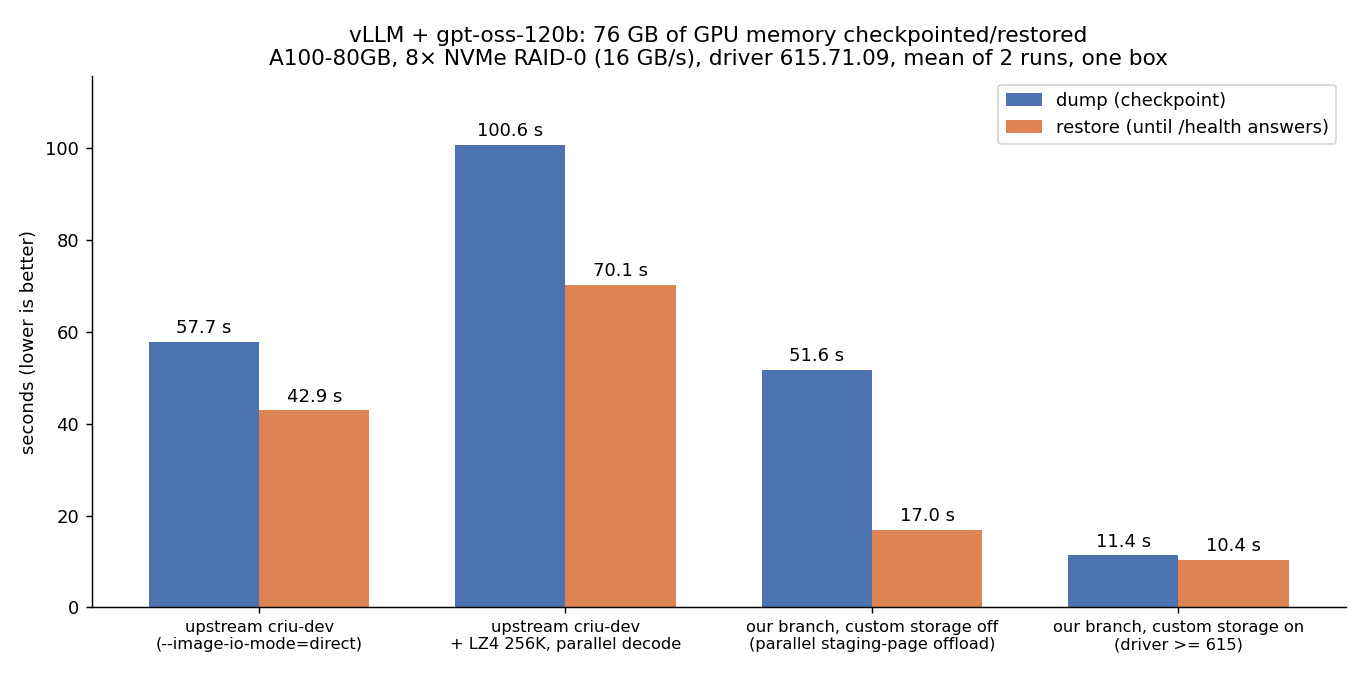
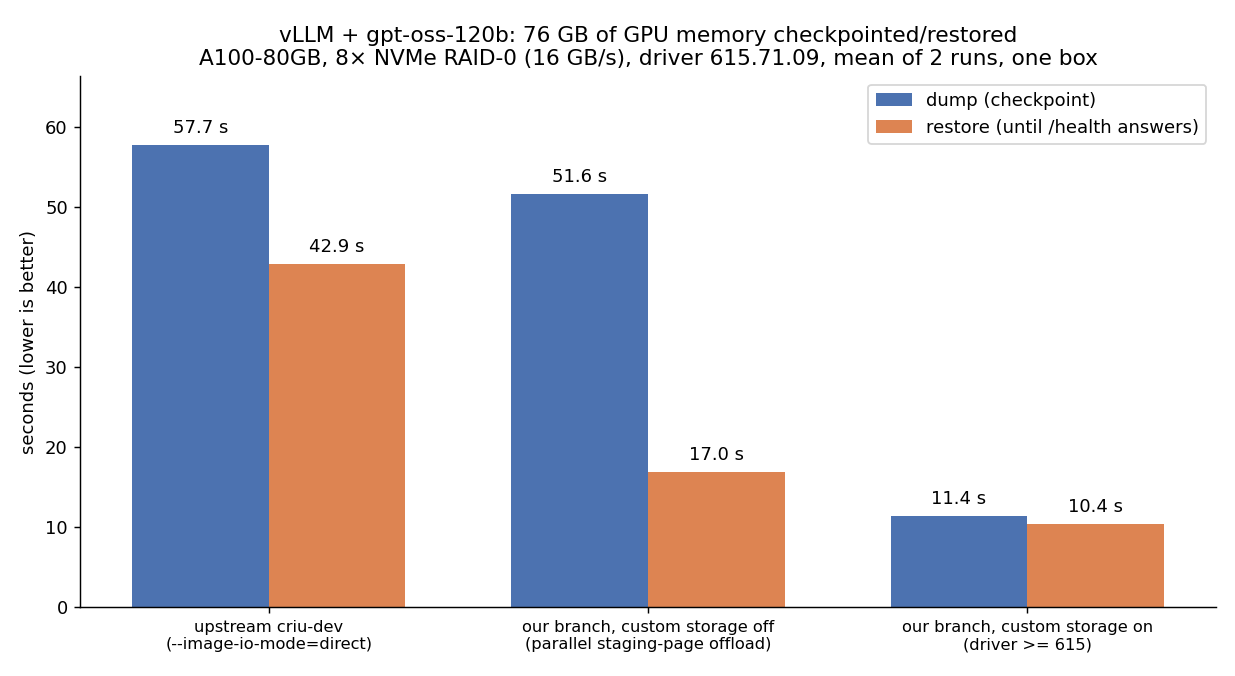
README: keep LZ4 out of the headline chart and table

diff --git a/results/2026-10_p4de_parallel_dump/plot_gptoss.py b/results/2026-10_p4de_parallel_dump/plot_gptoss.py
@@ -1,6 +1,6 @@
 #!/usr/bin/env python3
 """Bar chart of gpt-oss-120b checkpoint/restore on one p4de (A100-80GB, driver 615), 2026-10-06.
-Means of the two runs in this directory's summary.md and ../2026-10_p4de_compression_zero_skip/summary.md.
+Means of the two runs in this directory's summary.md (upstream: ../2026-10_p4de_compression_zero_skip/summary.md).
 Run: python3 plot_gptoss.py"""
 import matplotlib
 matplotlib.use("Agg")
@@ -9,15 +9,14 @@ import numpy as np
 
 variants = [
     "upstream criu-dev\n(--image-io-mode=direct)",
-    "upstream criu-dev\n+ LZ4 256K, parallel decode",
     "our branch, custom storage off\n(parallel staging-page offload)",
     "our branch, custom storage on\n(driver >= 615)",
 ]
-dump = [(57.124 + 58.336) / 2, (101.103 + 100.102) / 2, (51.796 + 51.480) / 2, (11.395 + 11.316) / 2]
-restore = [(44.211 + 41.557) / 2, (70.482 + 69.808) / 2, (17.372 + 16.533) / 2, (10.366 + 10.346) / 2]
+dump = [(57.124 + 58.336) / 2, (51.796 + 51.480) / 2, (11.395 + 11.316) / 2]
+restore = [(44.211 + 41.557) / 2, (17.372 + 16.533) / 2, (10.366 + 10.346) / 2]
 
 x = np.arange(len(variants)); w = 0.36
-fig, ax = plt.subplots(figsize=(10.5, 5.2))
+fig, ax = plt.subplots(figsize=(9.5, 5.2))
 b1 = ax.bar(x - w / 2, dump, w, label="dump (checkpoint)", color="#4C72B0")
 b2 = ax.bar(x + w / 2, restore, w, label="restore (until /health answers)", color="#DD8452")
 for bars in (b1, b2):

diff --git a/README.md b/README.md
@@ -15,7 +15,6 @@ driver 615.71.09), all variants on the same box. vLLM fills the card with KV cac
 | variant | dump | restore | what it does |
 |---|---|---|---|
 | upstream `criu-dev` `4485a86da`, `--image-io-mode=direct` | 58 s | 43 s | driver copies VRAM to host RAM, CRIU dumps those pages like any other memory |
-| upstream + `--compress-block 256K`, `--decompress-threads 0` | 101 s | 70 s | same, LZ4-compressed; the weights barely compress (image −16%) and restore stays bound by page faults |
 | our branch, custom storage off | **52 s** | **17 s** | driver still copies VRAM↔host RAM; the plugin moves the staging pages itself, 8 threads on dump (9 GB/s) and 16 on restore (21 GB/s), with O_DIRECT and 2 MB pages |
 | our branch, **custom storage on** (driver ≥ 615) | **11.4 s** | **10.4 s** | the plugin reads/writes VRAM directly through driver-exposed device mappings; no host staging copy at all |
 
@@ -43,8 +42,7 @@ then dumps that memory as ordinary pages. Upstream pays the driver copy (A100: ~
 ~2 GB/s on dump, ~10 s on restore) plus a page-cache-bound write/read of the same volume. Our plugin
 detects the staging VMAs, writes them with parallel workers and O_DIRECT and drops them from the target
 (dump), and on restore fills them in parallel straight from disk before the driver copies them back.
-Upstream's restore is bound by one thread faulting in 4 KB pages, which is why LZ4 compression with
-parallel decompression does not help on dense data. With the
+Upstream's restore is bound by one thread faulting in 4 KB pages. With the
 CUDA 13.4 custom-storage API (driver ≥ 615) the driver copy disappears entirely: the plugin streams VRAM
 to and from disk itself, and the time is the disk or PCIe time, whichever is slower.
 
